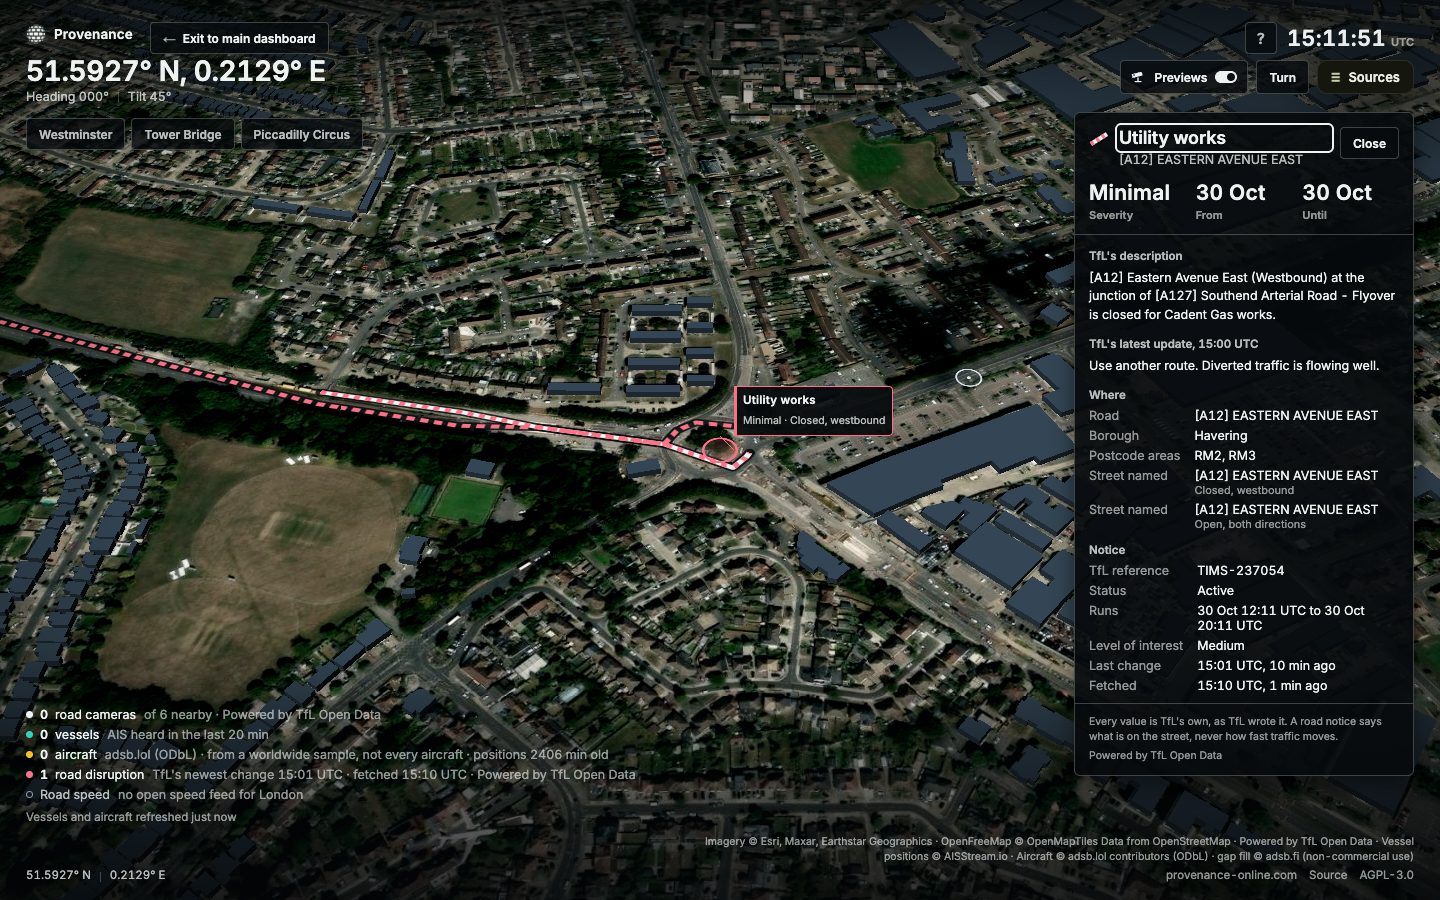
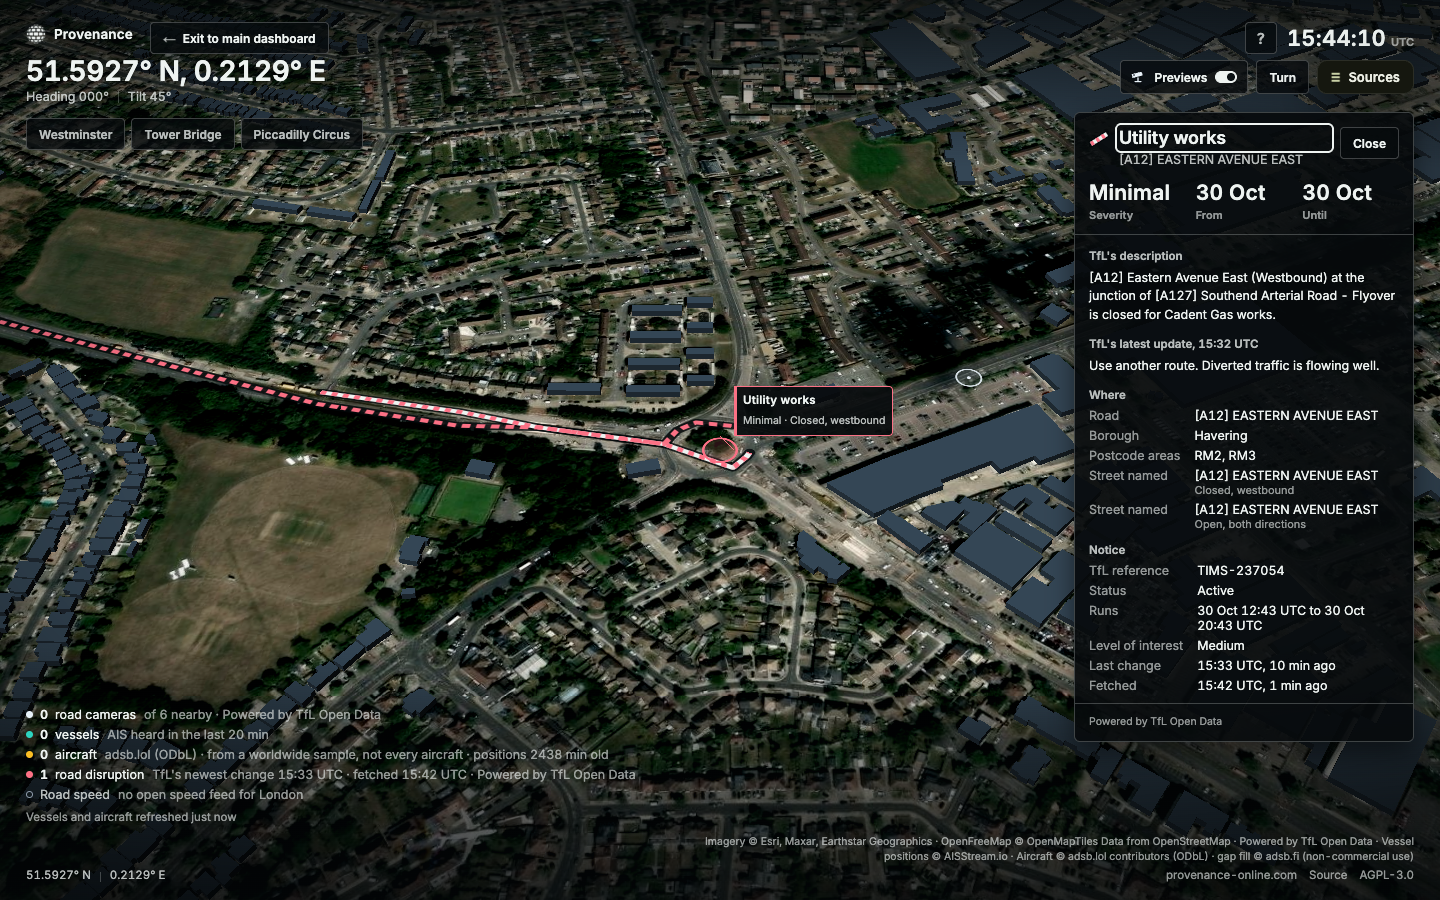
God's eye view: up to four road plates on a phone, and a plainer road panel footer
- A road notice's panel footer is now TfL's credit alone: the sentence "Every
  value is TfL's own..." is gone. Vessel and aircraft footers keep their notes.
- A phone (portrait, or landscape: wide and short) hangs up to four road plates
  instead of one. They are placed as before, so none overlaps another plate, the
  header, the counts, a camera card, the bar or an open panel, and fewer than
  four show where there is no room. A notice beyond the cap, or with no room,
  stays a street line or a ring, which can still be tapped. The wide screen's
  cap of two, and a recording's or a film's caps, are unchanged.
- The caps are a pure, tested function (tagCaps in lib/eye/declutter.ts). They are
  read once per placement, so nothing new runs per frame.

Changed region(s): [[0.75, 0.7778, 0.9375, 0.8711], [0.9062, 0.0311, 0.9688, 0.0622]]

diff --git a/tests/e2e/eye-road-details.spec.ts b/tests/e2e/eye-road-details.spec.ts
@@ -66,16 +66,19 @@ const OPEN_LINE = A12_NOTICE.openLines[0];
  * capture at a [lon, lat] for the NEXT load of the page; until then the aircraft feed is
  * empty. The vessel feed is always empty.
  */
-async function feeds(page: Page): Promise<{ errors: string[]; setPlane(at: [number, number] | null): void }> {
+async function feeds(
+  page: Page,
+): Promise<{ errors: string[]; setPlane(at: [number, number] | null): void; setNotices(list: typeof NOTICES | null): void }> {
   const errors: string[] = [];
   let plane: [number, number] | null = null;
+  let notices: typeof NOTICES = NOTICES;
   page.on("pageerror", (e) => errors.push(String(e)));
   page.on("console", (m) => {
     if (m.type() === "error") errors.push(m.text());
   });
   const json = (body: string) => ({ status: 200, contentType: "application/json", body });
   await page.route((url) => url.pathname === "/api/eye/streets", (route) =>
-    route.fulfill(json(streetsBody(NOTICES, NOW - MIN))),
+    route.fulfill(json(streetsBody(notices, NOW - MIN))),
   );
   await page.route((url) => url.pathname === "/api/signals/ais", (route) => route.fulfill(json(JSON.stringify({ features: [] }))));
   await page.route((url) => url.pathname === "/api/eye/vessels", (route) =>
@@ -85,8 +88,65 @@ async function feeds(page: Page): Promise<{ errors: string[]; setPlane(at: [numb
     const planes = plane ? [{ ...PLANES.planes[0], lon: plane[0], lat: plane[1] }] : [];
     return route.fulfill(json(JSON.stringify({ ...PLANES, count: planes.length, planes })));
   });
-  return { errors, setPlane: (at) => (plane = at) };
+  return { errors, setPlane: (at) => (plane = at), setNotices: (list) => (notices = list ?? NOTICES) };
 }
+
+/**
+ * Six notices in a column, 80 px apart, down the left of the screen: the A12 row with the
+ * words of other notices and no street line (built here, not TfL's data), so only their
+ * plates and rings show. Open the A12, read where each spot is on the map, put a notice there
+ * and load the page again. Returns the spots in page px, nearest the top first, with the
+ * sub-category each notice carries as its plate's title.
+ */
+const CROWD_TITLES = ["Utility works", "Borough works", "TfL works", "Road resurfacing", "Gas works", "Water works"];
+async function openWithCrowd(page: Page, feed: Awaited<ReturnType<typeof feeds>>, x: number) {
+  await page.goto(A12);
+  await ready(page);
+  const spots = CROWD_TITLES.map((title, i) => ({ title, x, y: 230 + i * 80 }));
+  const at = await page.evaluate((list) => {
+    const map = (window as unknown as { __map: { unproject(p: [number, number]): { lng: number; lat: number } } }).__map;
+    const r = document.querySelector("canvas.maplibregl-canvas")!.getBoundingClientRect();
+    return list.map((p) => {
+      const g = map.unproject([p.x - r.left, p.y - r.top]);
+      return [g.lng, g.lat] as [number, number];
+    });
+  }, spots);
+  feed.setNotices(
+    spots.map((spot, i) => ({
+      ...A12_NOTICE,
+      id: `TIMS-CROWD-${i}`,
+      subCategory: spot.title,
+      severity: "Minimal",
+      closure: undefined,
+      namedStreets: undefined,
+      location: `[A${100 + i}] CROWD ROAD ${i} (SW1A ) (Westminster)`,
+      lon: at[i][0],
+      lat: at[i][1],
+      openLines: [],
+      closedLines: [],
+    })),
+  );
+  await page.reload();
+  await ready(page);
+  return spots;
+}
+
+/** The road plates on screen, with their boxes, and how many overlap each other or the frame's words. */
+const platesOnScreen = (page: Page) =>
+  page.evaluate(() => {
+    const plates = [...document.querySelectorAll('div[data-kind="road"] [class*="tagPlate"]')].map((e) => ({
+      title: e.querySelector("b")?.textContent ?? "",
+      r: e.getBoundingClientRect(),
+    }));
+    const keeps = [...document.querySelectorAll("[data-eye-keep]")].map((e) => e.getBoundingClientRect()).filter((b) => b.width && b.height);
+    const hit = (a: DOMRect, b: DOMRect) => !(a.right <= b.left || b.right <= a.left || a.bottom <= b.top || b.bottom <= a.top);
+    let overlaps = 0;
+    plates.forEach((p, i) => {
+      for (const q of plates.slice(i + 1)) if (hit(p.r, q.r)) overlaps++;
+      for (const k of keeps) if (hit(p.r, k)) overlaps++;
+    });
+    return { titles: plates.map((p) => p.title), overlaps, inside: plates.every((p) => p.r.left >= 0 && p.r.right <= innerWidth && p.r.top >= 0 && p.r.bottom <= innerHeight) };
+  });
 
 /**
  * Open the A12, put an aircraft on bare ground at a fraction of the screen (away from the
@@ -189,8 +249,9 @@ test.describe("on a wide screen", () => {
     await expect(panel).toContainText(NOTICE_ID);
     await expect(panel).toContainText("Cadent Gas works");
     await expect(panel).toContainText("Powered by TfL Open Data");
-    // The panel says whose values they are, and names no "Works by".
-    await expect(panel).toContainText("Every value is TfL's own");
+    // The footer is TfL's credit alone; the panel names no "Works by".
+    await expect(panel).not.toContainText("Every value is TfL's own");
+    await expect(panel.locator("footer p")).toHaveText(["Powered by TfL Open Data"]);
     await expect(panel).not.toContainText("Works by");
     // TfL's own sentences come before the groups.
     const order = await panel.locator("h3").allTextContents();
@@ -315,6 +376,15 @@ test.describe("on a wide screen", () => {
     expect(feed.errors).toEqual([]);
   });
 
+  test("the same crowd gets two plates on a wide screen, as before", async ({ page }) => {
+    const feed = await feeds(page);
+    await openWithCrowd(page, feed, 420);
+    await expect(page.locator('div[data-kind="road"] [class*="tagPlate"]')).toHaveCount(2);
+    const shown = await platesOnScreen(page);
+    expect(shown.overlaps).toBe(0);
+    expect(feed.errors).toEqual([]);
+  });
+
   test("a screenshot of the panel on the A12", async ({ page }) => {
     await feeds(page);
     await page.goto(A12);
@@ -367,6 +437,27 @@ test.describe("on a phone", () => {
     const feed = await feeds(page);
     await openWithPlaneAside(page, feed);
     await hintCase(page);
+    expect(feed.errors).toEqual([]);
+  });
+
+  test("a crowd of notices gets up to four plates, never overlapping, and the rest stay tappable", async ({ page }) => {
+    const feed = await feeds(page);
+    const spots = await openWithCrowd(page, feed, 60);
+
+    // Six notices, a cap of four: four plates, clear of each other and of the frame's words.
+    await expect(page.locator('div[data-kind="road"] [class*="tagPlate"]')).toHaveCount(4);
+    const shown = await platesOnScreen(page);
+    expect(shown.overlaps).toBe(0);
+    expect(shown.inside).toBe(true);
+    for (const t of shown.titles) expect(CROWD_TITLES).toContain(t);
+    expect(new Set(shown.titles).size).toBe(4);
+    // The ledger counts what has a plate, as it does for every kind.
+    await expect(page.locator('section[aria-label="What this view shows"] p[data-k="road"] b')).toHaveText("4");
+
+    // A notice with no plate is still a ring you can tap.
+    const bare = spots.find((s) => !shown.titles.includes(s.title))!;
+    await page.touchscreen.tap(bare.x, bare.y);
+    await expect(page.getByRole("dialog", { name: bare.title })).toBeVisible();
     expect(feed.errors).toEqual([]);
   });
 

diff --git a/tests/unit/eye-declutter.test.ts b/tests/unit/eye-declutter.test.ts
@@ -7,8 +7,10 @@ import {
   overlaps,
   placeCards,
   placeTags,
+  PHONE_ROAD_TAGS,
   placementOrder,
   tagBox,
+  tagCaps,
   type Box,
   type Frame,
   type TagCandidate,
@@ -117,5 +119,78 @@ describe("estimateTextWidth", () => {
   it("gives capitals more room than lower case", () => {
     expect(estimateTextWidth("PEARL OF LONDON", 11.5)).toBeGreaterThan(estimateTextWidth("pearl of london", 11.5));
     expect(estimateTextWidth("", 11.5)).toBe(0);
+  });
+});
+
+describe("tagCaps", () => {
+  const frame = (o: Partial<{ portrait: boolean; record: boolean; landscapePhone: boolean }> = {}) => ({
+    portrait: false,
+    record: false,
+    landscapePhone: false,
+    ...o,
+  });
+
+  it("gives a portrait phone four road plates, and the rest of its caps as they were", () => {
+    expect(PHONE_ROAD_TAGS).toBe(4);
+    expect(tagCaps(frame({ portrait: true }))).toEqual({ ship: 4, plane: 2, road: 4, signal: 1 });
+  });
+
+  it("gives a landscape phone four road plates, and the wide caps for the rest", () => {
+    expect(tagCaps(frame({ landscapePhone: true }))).toEqual({ ship: 8, plane: 3, road: 4, signal: 2 });
+  });
+
+  it("keeps a wide screen at two road plates", () => {
+    expect(tagCaps(frame())).toEqual({ ship: 8, plane: 3, road: 2, signal: 2 });
+  });
+
+  it("leaves a recording or a film as it was, wide or portrait", () => {
+    expect(tagCaps(frame({ portrait: true, record: true }))).toEqual({ ship: 4, plane: 2, road: 1, signal: 1 });
+    expect(tagCaps(frame({ record: true, landscapePhone: true }))).toEqual({ ship: 8, plane: 3, road: 2, signal: 2 });
+  });
+});
+
+describe("four road plates on a phone", () => {
+  // A 390 x 844 phone: the frame's edge bands, the header and the counts as kept boxes.
+  const phone: Frame = { width: 390, height: 844, top: 10, bottom: 10, side: 8 };
+  const kept = (): Box[] => [
+    { x0: 0, y0: 0, x1: 390, y1: 130 },
+    { x0: 0, y0: 690, x1: 390, y1: 760 },
+  ];
+  const plate = (id: string, x: number, y: number): TagCandidate => ({ id, x, y, width: 150, height: 34 });
+  const overlapAny = (placed: { id: string; x: number; y: number; flip: boolean }[], cands: TagCandidate[]) => {
+    const boxes = placed.map((p) => tagBox(cands.find((c) => c.id === p.id)!, p.flip));
+    return boxes.some((a, i) => boxes.slice(i + 1).some((b) => overlaps(a, b)));
+  };
+
+  it("hangs four notices that have room, apart from each other and from the header and the counts", () => {
+    const cands = [plate("a", 40, 250), plate("b", 40, 340), plate("c", 40, 430), plate("d", 40, 520), plate("e", 40, 600)];
+    const taken = kept();
+    const placed = placeTags(cands, phone, tagCaps({ portrait: true, record: false, landscapePhone: false }).road, taken);
+    expect(placed.map((p) => p.id)).toEqual(["a", "b", "c", "d"]);
+    expect(overlapAny(placed, cands)).toBe(false);
+    for (const p of placed) {
+      const box = tagBox(cands.find((c) => c.id === p.id)!, p.flip);
+      for (const k of kept()) expect(overlaps(box, k)).toBe(false);
+      expect(insideFrame(box, phone)).toBe(true);
+    }
+  });
+
+  it("hangs fewer than four when they crowd each other, never overlapping", () => {
+    // Four notices within 20 px of each other can hang one plate, not four.
+    const cands = [plate("a", 60, 300), plate("b", 70, 310), plate("c", 80, 305), plate("d", 90, 315)];
+    const placed = placeTags(cands, phone, 4, kept());
+    expect(placed).toHaveLength(1);
+  });
+
+  it("hangs fewer when a notice sits under the header, or too near the edge for a plate to fit", () => {
+    const cands = [plate("under-header", 100, 90), plate("edge", 380, 400), plate("ok", 40, 300)];
+    const placed = placeTags(cands, phone, 4, kept());
+    expect(placed.map((p) => p.id)).toEqual(["ok"]);
+  });
+
+  it("opens a plate to the left where only that fits", () => {
+    const placed = placeTags([plate("right-edge", 300, 300)], phone, 4, kept());
+    expect(placed).toHaveLength(1);
+    expect(placed[0].flip).toBe(true);
   });
 });

diff --git a/components/eye/EyeOverlay.tsx b/components/eye/EyeOverlay.tsx
@@ -71,6 +71,7 @@ import {
   placeCards,
   placeTags,
   placementOrder,
+  tagCaps,
   type Box,
   type CardSize,
   type Frame,
@@ -200,13 +201,11 @@ const CAMERA_ROAD_EVERY_MS = 120_000;
 // The words take 40 (46 on a phone) under the picture, and the camera's road line 20 (18).
 const CARD_WIDE: CardSize & { max: number } = { width: 172, height: Math.round(172 / (352 / 288)) + 60, stalk: 52, max: 5 };
 const CARD_PHONE: CardSize & { max: number } = { width: 120, height: Math.round(120 / (352 / 288)) + 64, stalk: 34, max: 3 };
-const MAX_TAGS = {
-  wide: { ship: 8, plane: 3, road: 2, signal: 2 },
-  phone: { ship: 4, plane: 2, road: 1, signal: 1 },
-} as const;
+/** A phone held sideways: wide and short. Its road plates are capped like a portrait phone's (tagCaps). */
+const LANDSCAPE_PHONE_QUERY = "(min-aspect-ratio: 4/5) and (max-height: 500px)";
 /**
  * How many marks of the console's layers are offered to the tag placement; it places the
- * first one or two (MAX_TAGS.signal) that fit clear of the frame's words, nearest the middle.
+ * first one or two (the signal cap in tagCaps) that fit clear of the frame's words, nearest the middle.
  * Offered only the first two, a view whose first two marks sat under the header got none.
  */
 const SIGNAL_TAG_POOL = 200;
@@ -823,7 +822,6 @@ export default function EyeOverlay({ map, styleEpoch, target, portrait, record, 
     let disposed = false;
     const s = state.current;
     const size = portrait ? CARD_PHONE : CARD_WIDE;
-    const maxTags = portrait ? MAX_TAGS.phone : MAX_TAGS.wide;
     let ready = false;
     let lastRowsKey = "";
     // What the ledger counts: the marks that carry words on screen now (a card, a tag),
@@ -1069,6 +1067,8 @@ export default function EyeOverlay({ map, styleEpoch, target, portrait, record, 
       const roadOrder = placementOrder(roadItems, centre, shownTags).sort(
         (a, b) => (weight.get(b.id) ?? 0) - (weight.get(a.id) ?? 0),
       );
+      // Worked out here, once per placement (never per frame): a window can change shape.
+      const maxTags = tagCaps({ portrait, record, landscapePhone: window.matchMedia(LANDSCAPE_PHONE_QUERY).matches });
       const tagPlaced = [
         ...placeTags(shipOrder, frame, maxTags.ship, taken),
         ...placeTags(placementOrder(planeItems, centre, shownTags), frame, maxTags.plane, taken),

diff --git a/tests/unit/eye-detail.test.ts b/tests/unit/eye-detail.test.ts
@@ -75,7 +75,7 @@ const FETCHED = NOW_ROAD - 4 * 60_000;
 /** Every string a model can put on screen. */
 function strings(m: DetailModel): string[] {
   return [
-    m.title, m.kindLine, m.note, m.credit,
+    m.title, m.kindLine, ...(m.note ? [m.note] : []), m.credit,
     ...m.readout.flatMap((r) => [r.label, r.value ?? NOT_SENT]),
     ...(m.prose ?? []).flatMap((p) => [p.heading, p.text]),
     ...m.groups.flatMap((g) => [g.heading, ...g.rows.flatMap((r) => [r.label, r.value, r.note ?? ""])]),
@@ -480,14 +480,18 @@ describe("roadDetail, utility works that close one stretch of the A12", () => {
     ]);
   });
 
-  it("names no company and calls the values TfL's own", () => {
+  it("names no company, and its footer is TfL's credit alone", () => {
     expect(labelsOf(m)).not.toContain("Works by");
     // TfL's description names the company, and says so in its own words; the panel adds no row for it.
     expect(m.groups.flatMap((g) => g.rows.map((r) => r.label)).join(" ")).not.toMatch(/\b(by|company|contractor|operator)\b/i);
-    expect(m.note).toBe(
-      "Every value is TfL's own, as TfL wrote it. A road notice says what is on the street, never how fast traffic moves.",
-    );
+    expect(m.note).toBeUndefined();
     expect(m.credit).toBe("Powered by TfL Open Data");
+    expect(JSON.stringify(m)).not.toContain("Every value is TfL's own");
+  });
+
+  it("leaves a vessel's and an aircraft's footers as they were", () => {
+    expect(vesselDetail(DIAMOND, NOW).note).toMatch(/^Each value is what the ship's AIS transponder sent/);
+    expect(aircraftDetail(EZY, NOW, PULLED).note).toMatch(/^Altitude, speed, track and squawk/);
   });
 });
 

diff --git a/lib/eye/declutter.ts b/lib/eye/declutter.ts
@@ -127,6 +127,35 @@ export function placeTags(cands: readonly TagCandidate[], frame: Frame, max: num
   return out;
 }
 
+/** How many tags of each kind a frame hangs at most. */
+export interface TagCaps {
+  ship: number;
+  plane: number;
+  road: number;
+  signal: number;
+}
+
+const WIDE_CAPS: TagCaps = { ship: 8, plane: 3, road: 2, signal: 2 };
+const PHONE_CAPS: TagCaps = { ship: 4, plane: 2, road: 1, signal: 1 };
+/**
+ * A phone sees a small patch of street, so it gets more of TfL's road plates than a wide
+ * screen: up to four (Leon, 30 Oct). Each one still has to fit clear of the frame's words,
+ * the cards and the other plates, so a crowded view hangs fewer. A notice beyond the cap, or
+ * with no room, stays a street line or a ring, which can still be tapped.
+ */
+export const PHONE_ROAD_TAGS = 4;
+
+/**
+ * The tag caps for a frame: a portrait phone's, or a wide screen's. A portrait or a
+ * landscape phone takes the four road plates; a recording or a film keeps the old caps, so a
+ * reel looks as it did.
+ */
+export function tagCaps(f: { portrait: boolean; record: boolean; landscapePhone: boolean }): TagCaps {
+  const base = f.portrait ? PHONE_CAPS : WIDE_CAPS;
+  if (f.record || !(f.portrait || f.landscapePhone)) return base;
+  return { ...base, road: PHONE_ROAD_TAGS };
+}
+
 /**
  * The width a tag's text needs, near enough to keep tags apart. Inter at the tag's
  * sizes runs about 0.62 em a character in capitals and 0.55 em otherwise.

diff --git a/lib/eye/detail.ts b/lib/eye/detail.ts
@@ -7,8 +7,9 @@
 // the flag is worked out from the MMSI, so its label says "from MMSI"; an aircraft's
 // registration and type come from adsb.lol's database, not from the aircraft. A value a
 // feed did not send is left out of a group, and shown as "Not sent" in the readout, where
-// an empty place would otherwise look like a zero. A road notice is all TfL's: its model
-// says every value is TfL's own, and names no company, because TfL names none.
+// an empty place would otherwise look like a zero. A road notice is all TfL's: its
+// headings say so ("TfL's description"), its footer is TfL's credit alone, and it names no
+// company, because TfL names none.
 
 import { flagFromMmsi } from "@/lib/eye/mid";
 import { fmtClockUtc, fmtLat, fmtLon } from "@/lib/eye/wording";
@@ -42,7 +43,8 @@ export interface DetailModel {
   prose?: { heading: string; text: string }[];
   /** A group with no rows is left out. */
   groups: DetailGroup[];
-  note: string;
+  /** One sentence of the footer, about where the values come from. A road notice has none: its credit is enough. */
+  note?: string;
   credit: string;
 }
 
@@ -345,7 +347,6 @@ export function roadDetail(d: StreetDisruption, now: number, fetchedAt: number |
         ]),
       },
     ].filter((g) => g.rows.length > 0),
-    note: "Every value is TfL's own, as TfL wrote it. A road notice says what is on the street, never how fast traffic moves.",
     credit: TFL_CREDIT,
   };
 }

diff --git a/components/eye/DetailPanel.tsx b/components/eye/DetailPanel.tsx
@@ -211,7 +211,7 @@ export default function DetailPanel({ subject, also, staleSince, clock, onClose,
       </div>
 
       <footer className={styles.dFoot}>
-        <p>{model.note}</p>
+        {model.note && <p>{model.note}</p>}
         <p>{model.credit}</p>
       </footer>
     </section>
